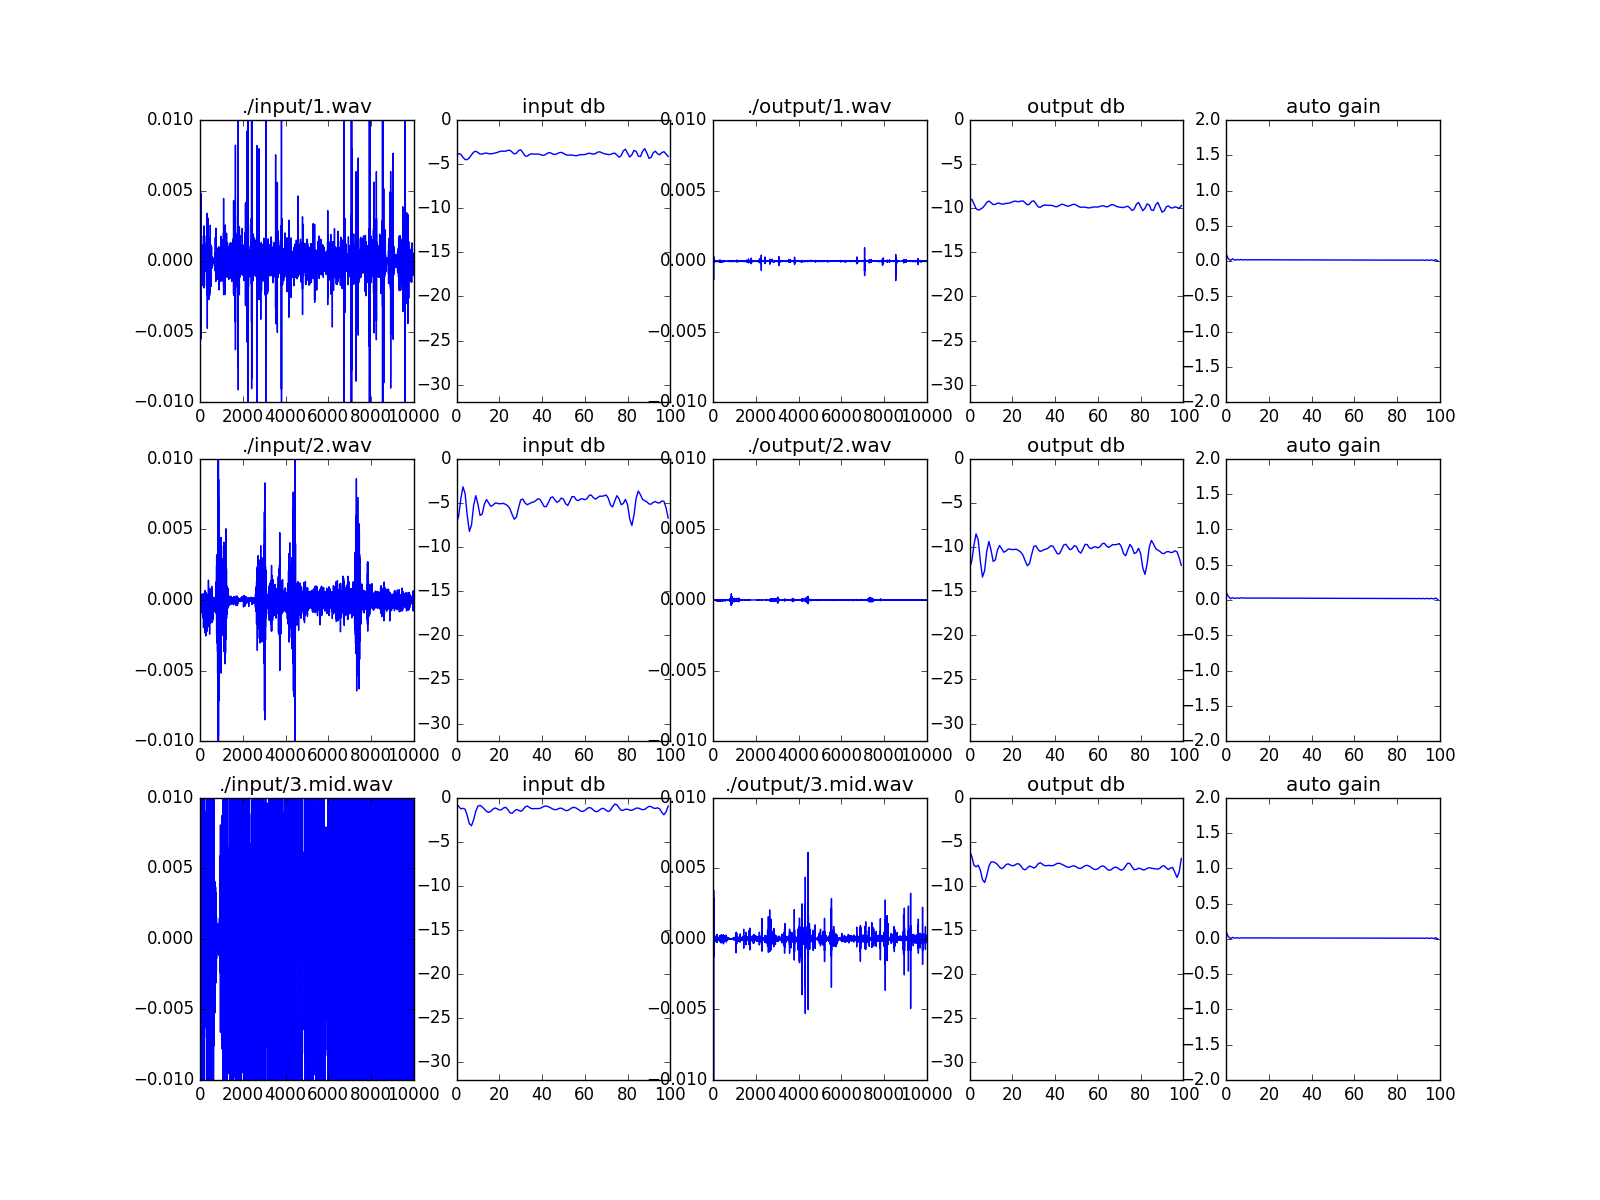
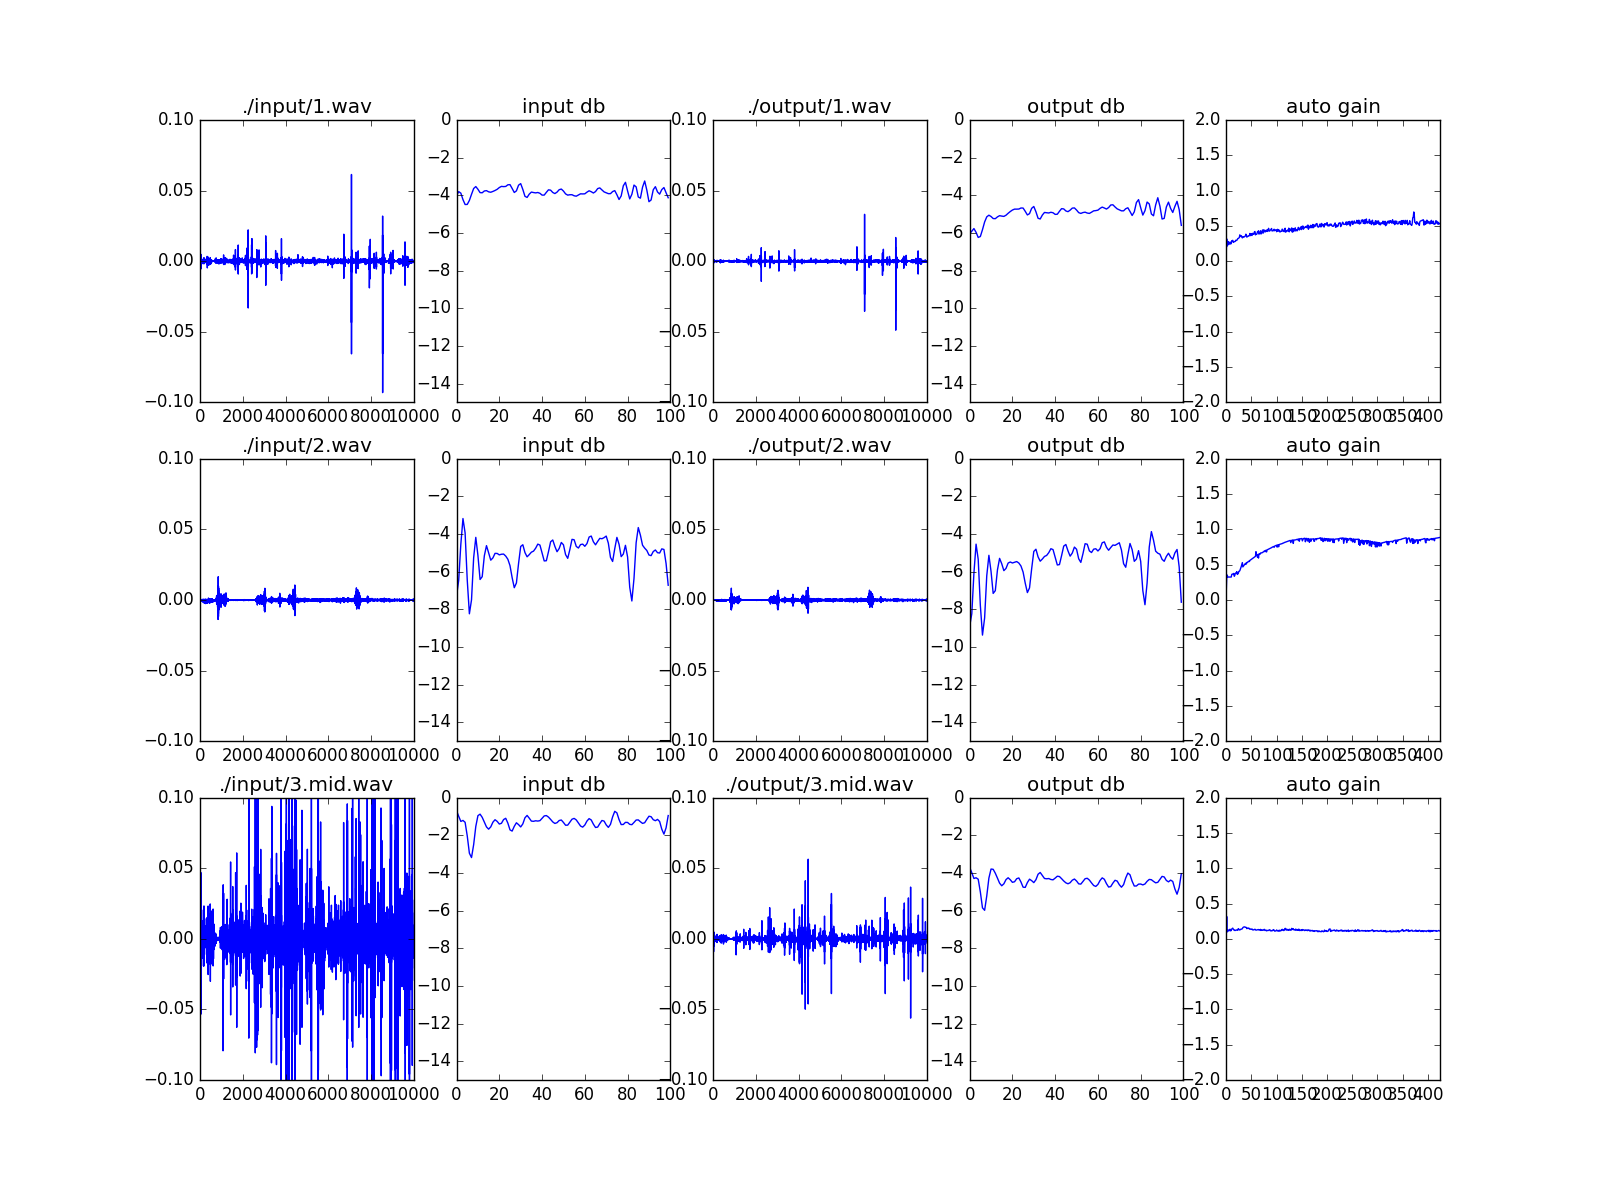
change dB to dBFS

diff --git a/main.py b/main.py
@@ -13,11 +13,10 @@ OUT_FILES = [path.replace('./input/', './output/') for path in WAV_FILES]
 PLOT_PATH = 'output/fig.png'
 
 PLOT_WAV_SAMPLE_NUM = 10000
-PLOT_WAV_MAX = 0.01
+PLOT_WAV_MAX = 0.1
 PLOT_DB_SAMPLE_NUM = 100
-PLOT_DB_MIN = -32
+PLOT_DB_MIN = -15
 PLOT_DB_MAX = 0
-PLOT_GAIN_SAMPLE_NUM = 100
 PLOT_GAIN_MIN = -2
 PLOT_GAIN_MAX = 2
 CHUNK_SIZE = 50
@@ -55,33 +54,36 @@ def auto_gain_control(wav):
         n = 20
         i = 0
         gain = 1.0
-        target = -20
+        target = -7
         epsilon = 2
         while True:
             i += 1
             if i >= n: break
 
             db = mean_dBFS(wav * gain)
+            
+            if db == -np.inf: return 1.0
 
             if abs(db - target) < epsilon: break
 
-            if db > target + 40:
-                gain *= 0.0005
-            elif db > target + 30:
-                gain *= 0.05
-            elif db > target + 20:
-                gain *= 0.1
-            elif db > target + 10:
-                gain *= 0.5
-            elif db > target + 0:
+            if db > -4:
                 gain *= 0.7
-            elif db > target - 10:
+            elif db > -5:
+                gain *= 0.8
+            elif db > -6:
+                gain *= 0.9
+            elif db > -7:
+                gain *= 1.1
+            elif db > -8:
                 gain *= 1.2
-            elif db > target - 20:
-                gain *= 1.5
-            elif db > target - 30:
-                gain *= 2.0
-            # print('\tgain:%.2f db:%.2f -> %.2f' %(gain, db, mean_dBFS(wav * gain)))
+            elif db > -9:
+                gain *= 1.3
+            elif db > -10:
+                gain *= 1.4
+            else:
+                gain *= 2 ** 1
+
+            print('\titer:%d/%d gain:%.4f db:%.2f -> %.2f' %(i, n, gain, db, mean_dBFS(wav * gain)))
         return gain
     def geomtric_mean(li):
         ret = pow(reduce(lambda x,y:x*y, li), 1 / len(li))
@@ -98,11 +100,10 @@ def auto_gain_control(wav):
     ret = []
     wav_gains = [0.1]
     for chunk in chunks:
-        gain = geomtric_mean(wav_gains[-100:] + [calc_gain(chunk)])
-        # ret.append(chunk * gain)
+        gain = geomtric_mean(wav_gains[-3:] + [calc_gain(chunk)])
+        # gain = calc_gain(chunk)
         ret.append(chunk * gain)
         wav_gains.append(gain)
-        # print('\tgain:%.2f mean_db:%.2f' % (gain, mean_dBFS(chunk)))
     return np.concatenate(ret), wav_gains
 
 N = len(WAV_FILES)
@@ -114,7 +115,6 @@ wav_outs = [None for i in range(N)]
 wav_out_dbs  = [None for i in range(N)]
 wav_raw_dbs  = [None for i in range(N)]
 wav_gains = [None for i in range(N)]
-
 for i in range(N):
     rates[i], wav_raws[i] = scipy.io.wavfile.read(wav_paths[i])
     print('\nauto_gain_control:', wav_paths[i])
@@ -124,8 +124,7 @@ for i in range(N):
 
     scipy.io.wavfile.write(out_paths[i], rates[i], wav_outs[i])
 
-#########
-print(wav_out_dbs[0])
+##### Graph ####
 print('\nplotting:', PLOT_PATH)
 plots = []
 
@@ -135,8 +134,7 @@ for i in range(N):
         scipy.signal.resample(wav_raw_dbs[i], PLOT_DB_SAMPLE_NUM),
         scipy.signal.resample(wav_outs[i],    PLOT_WAV_SAMPLE_NUM),
         scipy.signal.resample(wav_out_dbs[i], PLOT_DB_SAMPLE_NUM),
-        scipy.signal.resample(wav_gains[i],   PLOT_GAIN_SAMPLE_NUM),
-
+        wav_gains[i],
         ]
 
 fig = plt.figure(figsize=(16, 4*N))
@@ -170,7 +168,7 @@ for i in range(N):
     ax5 = fig.add_subplot(N, M, 5 + M*i)
     ax5.set_title('auto gain')
     ax5.set_autoscale_on(False)
-    ax5.axis([0, PLOT_GAIN_SAMPLE_NUM, PLOT_GAIN_MIN, PLOT_GAIN_MAX])
+    ax5.axis([0, len(plots[4 + M*i]), PLOT_GAIN_MIN, PLOT_GAIN_MAX])
     ax5.plot(plots[4 + M*i])
 
 plt.savefig(PLOT_PATH)
